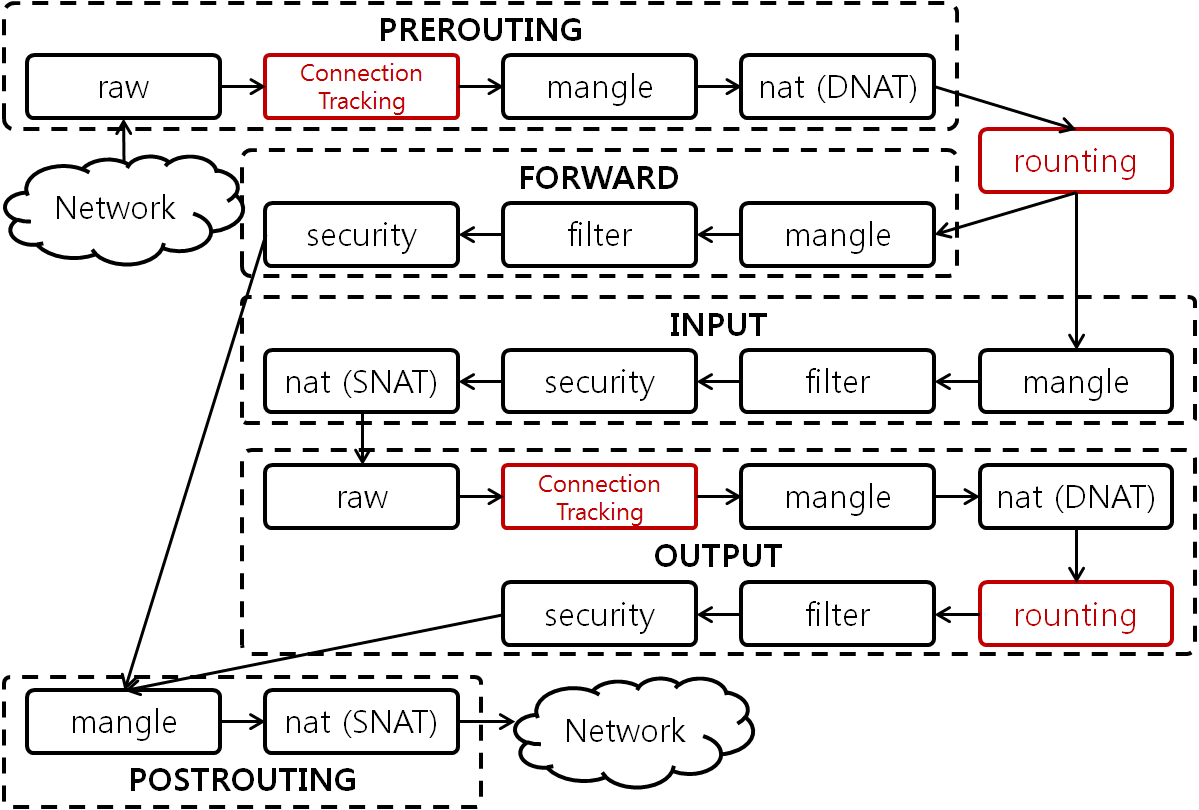
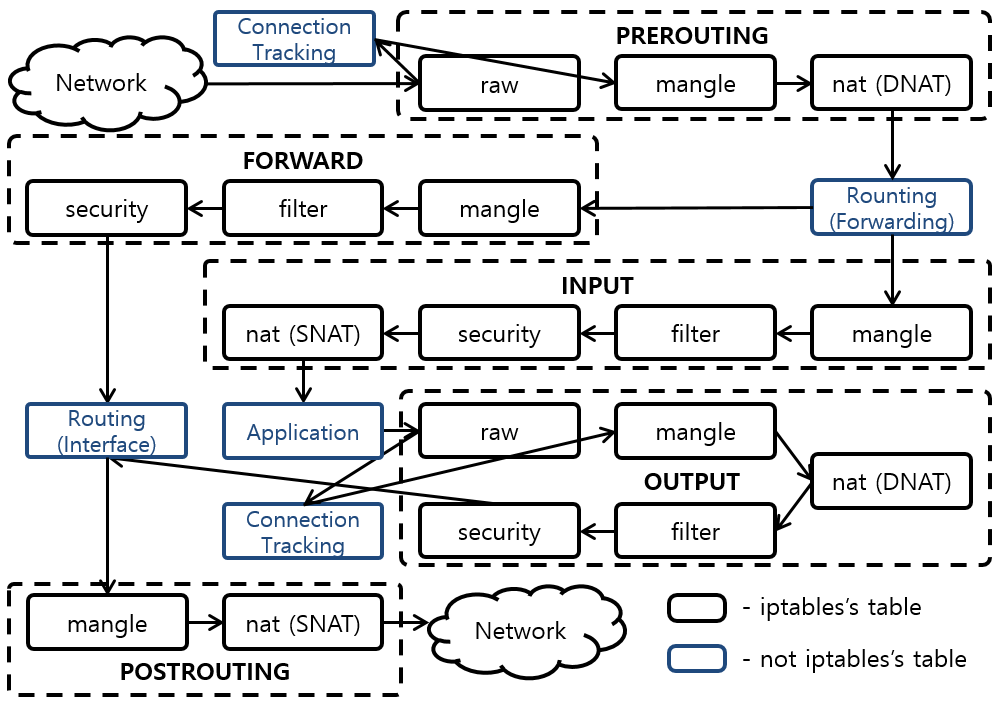
Update netfilter

Changed region(s): [[0.0, 0.0, 1.0, 1.0], [0.775, 0.905, 0.961, 0.9674], [0.868, 0.0, 0.992, 0.0312]]

diff --git a/_docs/theory_analysis/Linux_netfilter_iptables.md b/_docs/theory_analysis/Linux_netfilter_iptables.md
@@ -31,20 +31,34 @@ Linux안에 있는 Netfilter Framework를 분석하고 Netfilter를 이용하는
 
 * 외부에서 온 Packet의 목적지가 자신인 경우 NF_IP_PRE_ROUTING -> NF_IP_LOCAL_IN -> NF_IP_LOCAL_OUT -> NF_IP_POST_ROUTING Hook을 거친다.
 
-* 외부에서 온 Packet의 목적지가 자신이 아닌경우 NF_IP_PRE_ROUTING -> NF_IP_FORWARD -> NF_IP_POST_ROUTING Hook을 거친다.  
+* 외부에서 온 Packet의 목적지가 자신이 아닌경우 NF_IP_PRE_ROUTING -> NF_IP_FORWARD -> NF_IP_POST_ROUTING Hook을 거친다.
 
 ### 2. iptables
 
 ![]({{site.baseurl}}/images/theory_analysis/Linux_netfilter_iptables/Netfilter_Packet_Traversal.PNG)
 
-* iptables는 Netfilter Framework를 이용하여 Packet을 제어하고 변경하는 Tool이다. 위의 그림은 iptables이 Netfilter를 이용한 Packet 처리 과정을 나타내고 있다. 그림에서 PREROUTING, FOWRARD, INPUT, OUTPUT, POSTROUTING은 각각 Netfilter의 NF_IP_PRE_ROUTING, NF_IP_LOCAL_IN, NF_IP_FORWARD, NF_IP_LOCAL_OUT, NF_IP_POST_ROUTING Hook을 의미한다.
+* iptables는 Netfilter Framework를 이용하는 대표 Tool이다. iptables를 이용하여 Packet을 제어하거나 조작 할 수 있다. 위의 그림은 Netfilter를 이용한 iptables의 Packet 처리 과정을 나타내고 있다. 그림에서 PREROUTING, FOWRARD, INPUT, OUTPUT, POSTROUTING은 각각 Netfilter의 NF_IP_PRE_ROUTING, NF_IP_LOCAL_IN, NF_IP_FORWARD, NF_IP_LOCAL_OUT, NF_IP_POST_ROUTING Hook을 의미한다.
 
 #### 2.1. tables
+
+* iptables는 Filter Table, NAT Table, Mangle Table, Raw Table, Security Table 총 5가지의 Table을 제공한다.
+
+1. Filter Table - Packet Filtering을 위한 Table이다. Packet을 Packet의 목적지까지 전달할지 아니면 Packet을 Drop할지 결정한다. Firewall 기능은 Filter Table을 통해 구축 가능하다.
+
+1. NAT Table - Packet NAT(Network Address Translation)를 위한 Table이다. Packet의 Source Address나 Destination Address를 변경한다.
+
+1. Mangle Table - Packet의 IP Header를 바꾼다. Packet의 TTL(Time to Live)를 변경하거나 Packet을 Marking하여 다른 iptables의 Table이나 Network Tool에서 Packet을 구분 할 수 있도록 한다.
+
+1. Raw Table - Netfilter Framework는 Hook 뿐만 아니라 Connection Tracking 기능을 제공한다. 이전에 도착한 Packet들을 바탕으로 방금 도착한 Packet의 Connection을 추적한다. Raw Table은 특정 Packet이 Connection Tracking에서 제외되도록 설정한다.
+
+1. Security Table - SELinux에서 Packet을 어떻게 처리할지 결정하기 위한 Table이다.
 
 #### 2.2. packet flow
 
 ### 3. 참조
 
 * iptables, Netfilter - [https://www.digitalocean.com/community/tutorials/a-deep-dive-into-iptables-and-netfilter-architecture](https://www.digitalocean.com/community/tutorials/a-deep-dive-into-iptables-and-netfilter-architecture)
+
+* iptable process - [http://stuffphilwrites.com/2014/09/iptables-processing-flowchart/](http://stuffphilwrites.com/2014/09/iptables-processing-flowchart/)
 
 * Netfilter Packet Traversal - [http://linux-ip.net/](http://linux-ip.net/)
